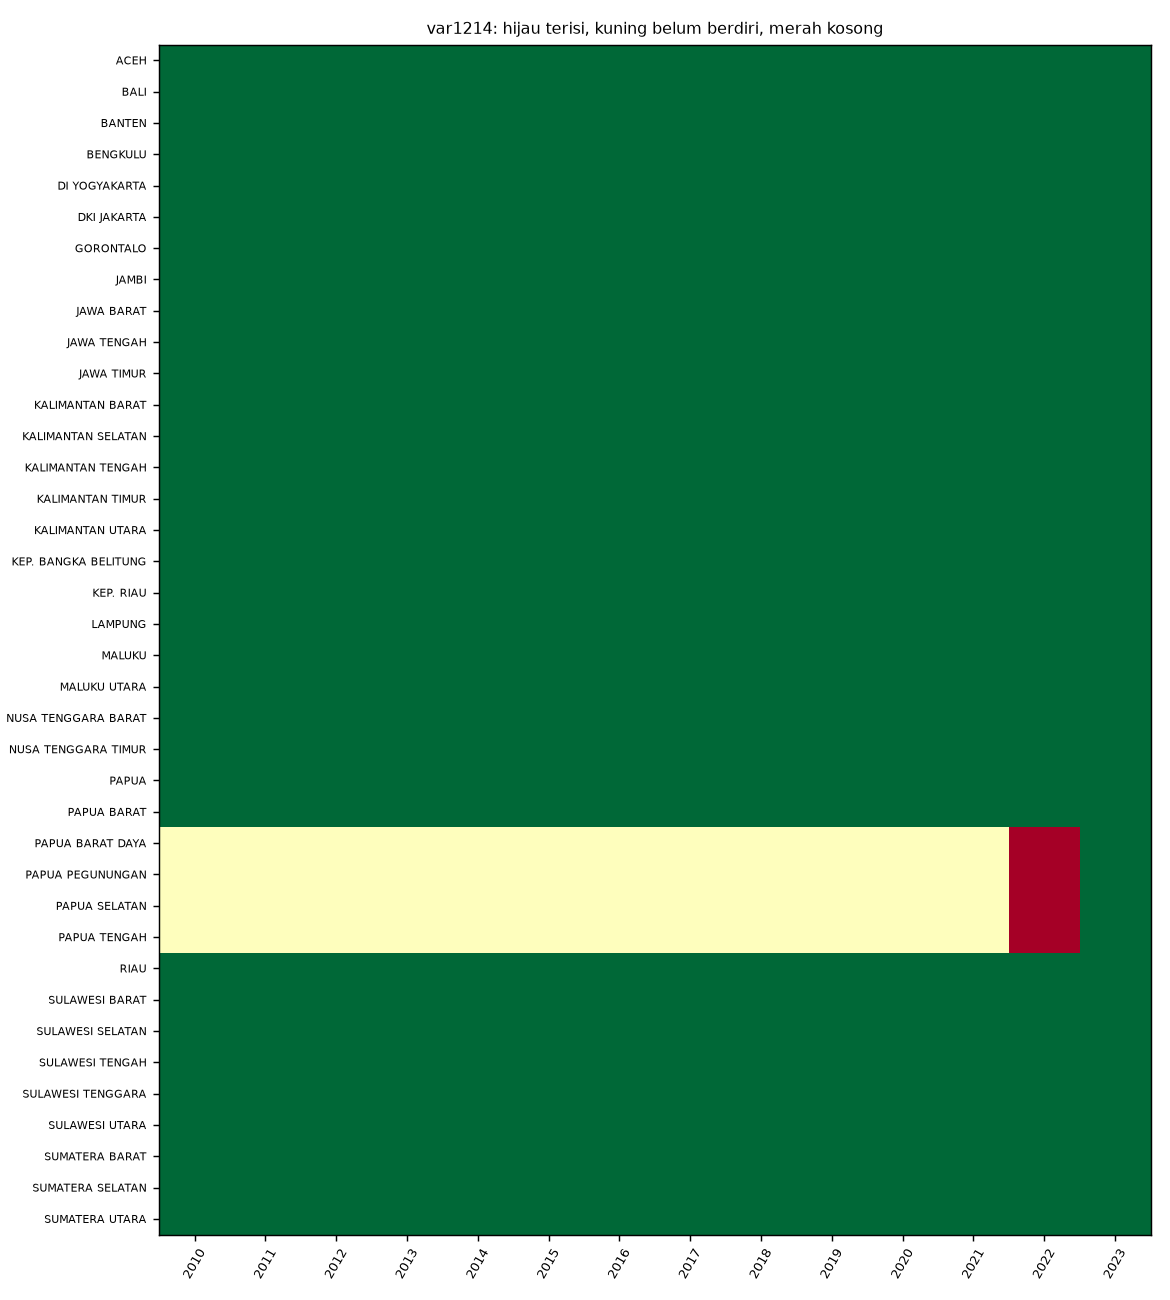
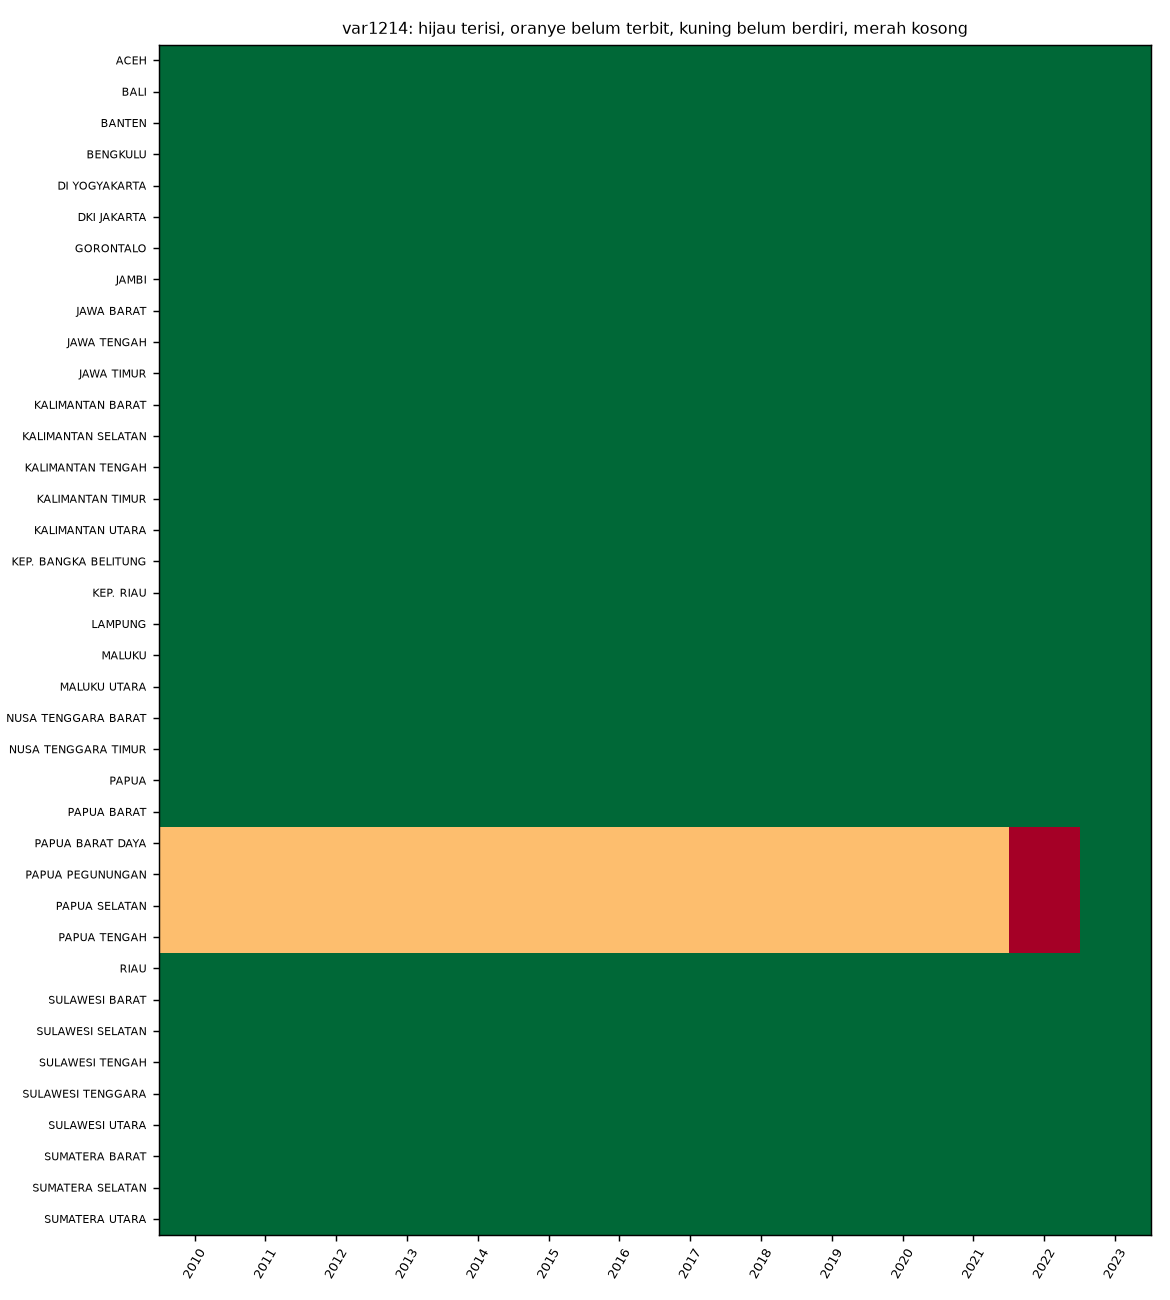
Revisi bagian 7 sprint 1 tahap 3

Changed region(s): [[0.1231, 0.6154, 0.8615, 0.7385], [0.3077, 0.0, 0.8308, 0.0308]]

diff --git a/src/silver/grid_tahap3.py b/src/silver/grid_tahap3.py
@@ -26,6 +26,13 @@ BERDIRI = {
     "PAPUA BARAT DAYA": 2022,
 }
 
+# REVISI: Tambahan untuk klasifikasi sel belum terbit (data belum dirilis BPS)
+BUKTI_1161 = ("var.note BPS: laju provinsi baru (DOB) baru tersedia 2025; "
+              "2024 dihitung pada provinsi induk")
+BELUM_TERBIT = {("var1161", n, t): BUKTI_1161
+                for n in ("PAPUA BARAT DAYA", "PAPUA SELATAN", "PAPUA TENGAH", "PAPUA PEGUNUNGAN")
+                for t in (2022, 2023, 2024)}
+
 
 def sebab_kosong(t, f, l):
     if f is None:
@@ -40,12 +47,14 @@ def sebab_kosong(t, f, l):
 def peta_sel(g, s):
     w = g.pivot(index="nama", columns="tahun", values="kode_status").sort_index()
     fig, ax = plt.subplots(figsize=(9, 10))
-    ax.imshow(w.values, aspect="auto", cmap="RdYlGn", vmin=0, vmax=2)
+    # REVISI: vmax diubah jadi 3 karena ada status baru (belum_terbit = 3)
+    ax.imshow(w.values, aspect="auto", cmap="RdYlGn", vmin=0, vmax=3)
     ax.set_xticks(range(len(w.columns)))
     ax.set_xticklabels(w.columns, rotation=60, fontsize=7)
     ax.set_yticks(range(len(w.index)))
     ax.set_yticklabels(w.index, fontsize=6)
-    ax.set_title(f"{s}: hijau terisi, kuning belum berdiri, merah kosong", fontsize=9)
+    # REVISI: Judul keterangan warna disesuaikan
+    ax.set_title(f"{s}: hijau terisi, oranye belum terbit, kuning belum berdiri, merah kosong", fontsize=9)
     fig.tight_layout()
     fig.savefig(GAMBAR / f"grid_{s}.png", dpi=130)
     plt.close(fig)
@@ -103,9 +112,13 @@ def main():
             for t in tahun:
                 v = nilai.get((w, t), np.nan)
                 if pd.notna(v):
-                    st, sb, ks = "terisi", "", 2
+                    st, sb, ks = "terisi", "", 3
                 elif lahir and t < lahir:
                     st, sb, ks = "belum_berdiri", "", 1
+                elif (s, str(nama[w]).upper().strip(), t) in BELUM_TERBIT:
+                    # REVISI: Tambahan kondisi untuk menangkap status belum terbit
+                    st, ks = "belum_terbit", 2
+                    sb = BELUM_TERBIT[(s, str(nama[w]).upper().strip(), t)]
                 else:
                     st, sb, ks = "kosong", sebab_kosong(t, f, l), 0
                 baris.append(dict(seri_kode=s, wilayah_kode=w, nama=nama[w], tahun=t,
@@ -113,8 +126,9 @@ def main():
     g = pd.DataFrame(baris)
     g.drop(columns="kode_status").to_csv(PROFIL / "grid_panel.csv", index=False)
 
-    # 4. kelengkapan per tahun dan per seri (belum_berdiri tidak dihitung missing)
-    ada = g[g["status"] != "belum_berdiri"]
+    # 4. kelengkapan per tahun dan per seri (belum_berdiri & belum_terbit tidak dihitung missing)
+    # REVISI: buang status belum_terbit juga dari sel yang diharapkan
+    ada = g[~g["status"].isin(["belum_berdiri", "belum_terbit"])]
     kt = (ada.groupby(["seri_kode", "tahun"])
           .agg(sel_diharapkan=("status", "size"),
                sel_terisi=("status", lambda x: int((x == "terisi").sum()))).reset_index())
@@ -125,15 +139,20 @@ def main():
           .agg(tahun_awal=("tahun", "min"), tahun_akhir=("tahun", "max"),
                sel_grid=("status", "size"),
                belum_berdiri=("status", lambda x: int((x == "belum_berdiri").sum())),
+               belum_terbit=("status", lambda x: int((x == "belum_terbit").sum())),
                terisi=("status", lambda x: int((x == "terisi").sum())),
                kosong=("status", lambda x: int((x == "kosong").sum()))).reset_index())
-    ks["sel_diharapkan"] = ks["sel_grid"] - ks["belum_berdiri"]
+    
+    # REVISI: Masukkan belum_terbit ke dalam pengurangan sel_diharapkan
+    ks["sel_diharapkan"] = ks["sel_grid"] - ks["belum_berdiri"] - ks["belum_terbit"]
     ks["persen_terisi"] = (100 * ks["terisi"] / ks["sel_diharapkan"]).round(1)
+    
     sb = g[g["status"] == "kosong"].pivot_table(index="seri_kode", columns="sebab",
                                                 values="tahun", aggfunc="count", fill_value=0)
     ks = ks.merge(sb.reset_index(), on="seri_kode", how="left").fillna(0)
     ks.to_csv(PROFIL / "kelengkapan_per_seri.csv", index=False)
 
+    # Hanya detail untuk sel yang benar-benar missing (kosong)
     kd = (g[g["status"] == "kosong"].groupby(["seri_kode", "wilayah_kode", "nama", "sebab"])
           .agg(n_sel=("tahun", "size"),
                tahun=("tahun", lambda x: " ".join(map(str, sorted(x))))).reset_index())
@@ -167,7 +186,12 @@ def main():
         print("tahun arah berlawanan:", ok.index[~ok["arah_sama"]].tolist())
     else:
         print("tidak ada baris nasional var1161")
-    print("\nsel_kosong_grid total:", int((g["status"] == "kosong").sum()))
+        
+    # REVISI: Output terminal dipisah menjadi 4 baris
+    print("\nsel_missing (kosong):", int((g["status"] == "kosong").sum()))
+    print("sel_belum_terbit:", int((g["status"] == "belum_terbit").sum()))
+    print("sel_belum_berdiri:", int((g["status"] == "belum_berdiri").sum()))
+    print("sel_kosong_grid (missing + belum_terbit):", int(g["status"].isin(["kosong", "belum_terbit"]).sum()))
     print("selesai. Lihat reports/profil/ dan reports/gambar/grid_*.png")
 
 

diff --git a/reports/grid-tahap3.md b/reports/grid-tahap3.md
@@ -12,8 +12,8 @@ Aturan:
 2. Susunan 38 provinsi diambil dari kode wilayah di var2755 (38 kode, tidak ada kode dengan dua nama). Nama ke-38 provinsi diperiksa satu per satu, termasuk Kalimantan Utara dan empat provinsi baru Papua.
 3. Kunci yang sama pada dua snapshot atau dua format (CSV dan JSON) diambil dari snapshot terbaru, hanya untuk analisis. Aturan pemilihan resmi ditetapkan di Gold dan dicatat di log.
 4. Sel provinsi baru sebelum tahun berdiri ditandai `belum_berdiri` dan tidak dihitung missing (Kalimantan Utara 2012; Papua Barat Daya, Papua Selatan, Papua Tengah, dan Papua Pegunungan 2022). Tahun berdiri adalah asumsi awal. Sel yang terisi tetap dihitung terisi walaupun sebelum tahun itu.
-5. Sel kosong dibiarkan kosong dan dilaporkan. Tidak ada imputasi.
-6. Keputusan dicatat di `log-keputusan.csv` (K-002 sampai K-007).
+5. Sel kosong dibedakan menjadi dua: `belum_terbit` (sesuai catatan resmi BPS) dan `kosong` (missing belum terjelaskan). Keduanya tidak diimputasi.
+6. Keputusan dicatat di `log-keputusan.csv` (K-002 sampai K-010).
 
 ## 2. Kode di luar 38 provinsi
 
@@ -24,25 +24,25 @@ Bukti dari berkas mentah (`bps/2026-10-17/json/sdg8_produktivitas.json`):
 - Daftar vervar pada halaman JSON itu hanya memuat 9999 (INDONESIA). Kode 1 tidak punya label.
 - Kedua baris hanya ada di JSON. CSV tidak memuatnya, sehingga berkas ini berisi 524 baris (CSV) dan 526 baris (JSON).
 
-Nilainya dekat dengan angka nasional tahun yang sama (4,70 dan 1,85) tetapi tidak sama, sehingga tidak cukup untuk menyimpulkan bahwa kode ini adalah baris nasional. Arti kode 1 belum terbukti. Kedua baris tidak masuk grid, tidak dihapus, tidak dipetakan ke wilayah lain, dan tetap tercatat di `reports/profil/kode_wilayah_di_luar_38.csv` (log K-006). Keduanya adalah 2 dari 511 pengamatan var1161 pada profil Tahap 2, dan nilainya berada di dalam rentang provinsi. var1214 dan var2755 memuat 38 kode provinsi dan var1344 memuat 34 kode.
+Nilainya dekat dengan angka nasional tahun yang sama (4,70 dan 1,85) tetapi tidak sama, sehingga tidak cukup untuk menyimpulkan bahwa kode ini adalah baris nasional. Arti kode 1 belum terbukti. Kedua baris tidak masuk grid, tidak dihapus, tidak dipetakan ke wilayah lain, dan tetap tercatat di `reports/profil/kode_wilayah_di_luar_38.csv` (log K-009). Keduanya adalah 2 dari 511 pengamatan var1161 pada profil Tahap 2, dan nilainya berada di dalam rentang provinsi. var1214 dan var2755 memuat 38 kode provinsi dan var1344 memuat 34 kode.
 
 ## 3. Kelengkapan per seri
 
-| Seri | Periode | Sel grid | Belum berdiri | Diharapkan | Terisi | Kosong | Persen terisi |
-|---|---|---|---|---|---|---|---|
-| var1161 | 2011-2025 | 570 | 45 | 525 | 509 | 16 | 97,0 |
-| var1214 | 2010-2023 | 532 | 48 | 484 | 480 | 4 | 99,2 |
-| var1344 | 2015-2023 | 342 | 28 | 314 | 306 | 8 | 97,5 |
-| var2755 | 2018-2025 | 304 | 16 | 288 | 280 | 8 | 97,2 |
-| Total | | 1.748 | 137 | 1.611 | 1.575 | 36 | 97,8 |
+| Seri | Periode | Sel grid | Belum berdiri | Belum terbit | Diharapkan | Terisi | Kosong (Missing) | Persen terisi |
+|---|---|---|---|---|---|---|---|---|
+| var1161 | 2011-2025 | 570 | 45 | 12 | 513 | 509 | 4 | 99,2 |
+| var1214 | 2010-2023 | 532 | 48 | 0 | 484 | 480 | 4 | 99,2 |
+| var1344 | 2015-2023 | 342 | 28 | 0 | 314 | 306 | 8 | 97,5 |
+| var2755 | 2018-2025 | 304 | 16 | 0 | 288 | 280 | 8 | 97,2 |
+| Total | | 1.748 | 137 | 12 | 1.599 | 1.575 | 24 | 98,5 |
 
-Persen terisi = terisi dibagi sel diharapkan (sel belum berdiri tidak dihitung). Baris provinsi hasil ekstraksi 1.577 = 1.575 sel terisi + 2 baris kode 1 yang di luar grid.
+Persen terisi = terisi dibagi sel diharapkan (sel belum berdiri dan belum terbit tidak dihitung). Baris provinsi hasil ekstraksi 1.577 = 1.575 sel terisi + 2 baris kode 1 yang di luar grid.
 
 ## 4. Persen terisi per tahun
 
 Tabel lengkap: `reports/profil/kelengkapan_per_tahun.csv`.
 
-- var1161: 100% pada 2011, 2016-2021, dan 2025. 97,1% pada 2012-2015 (33 dari 34 provinsi). 89,5% pada 2022-2024 (34 dari 38).
+- var1161: 100% pada 2011, 2016-2025. 97,1% pada 2012-2015 (33 dari 34 provinsi). (Catatan: 2022-2024 kini 100% karena 12 sel belum terbit tidak dihitung sebagai missing).
 - var1214: 100% pada 2010-2021 dan 2023. 89,5% pada 2022 (34 dari 38).
 - var1344: 100% pada 2015-2021. 89,5% pada 2022 dan 2023.
 - var2755: 100% pada 2018-2021, 2024, dan 2025. 89,5% pada 2022 dan 2023.
@@ -51,17 +51,18 @@ Persen terendah 89,5% berarti 34 dari 38 provinsi terisi.
 
 ## 5. Sel kosong
 
-Detail: `reports/profil/sel_kosong_detail.csv`. Seluruh 36 sel kosong ada pada lima provinsi. Tidak ada celah di tengah deret dan tidak ada provinsi lama yang kosong.
+Detail: `reports/profil/sel_kosong_detail.csv`. Dari 36 sel yang tidak terisi, **12 sel dikategorikan belum terbit** (tidak dihitung missing) dan **24 sel dikategorikan missing belum terjelaskan**. Seluruh sel tersebut hanya ada pada lima provinsi baru. Tidak ada celah di tengah deret dan tidak ada provinsi lama yang kosong.
 
-| Provinsi | Seri dan tahun kosong | Sel |
-|---|---|---|
-| Kalimantan Utara | var1161 2012-2015 | 4 |
-| Papua Barat Daya, Papua Selatan, Papua Tengah, Papua Pegunungan | var1161 2022-2024 (3 sel per provinsi), var1214 2022 (1), var2755 2022-2023 (2), var1344 2022-2023 (2) | 32 |
+| Provinsi | Jenis | Seri dan tahun | Sel |
+|---|---|---|---|
+| Papua Barat Daya, Papua Selatan, Papua Tengah, Papua Pegunungan | `belum_terbit` | var1161 2022-2024 | 12 |
+| Kalimantan Utara | `kosong` (missing) | var1161 2012-2015 | 4 |
+| Papua Barat Daya, Papua Selatan, Papua Tengah, Papua Pegunungan | `kosong` (missing) | var1214 2022 (4 sel); var2755 2022-2023 (8 sel); var1344 2022-2023 (8 sel) | 20 |
 
 Penyebab:
-1. var1161: catatan BPS (var.note) menyatakan laju 2024 dihitung pada provinsi induk (Papua dan Papua Barat) karena data tenaga kerja provinsi baru baru tersedia 2024, sehingga laju provinsi baru baru tersedia 2025.
-2. var1344 dan var2755: catatan BPS tidak memberi penjelasan. Penyebab belum terjelaskan. Pada var1344 keempat provinsi baru Papua tidak ada di seri (34 provinsi).
-3. Kalimantan Utara var1161 2012-2015: belum terjelaskan. Menurut `grid_panel.csv`, var1214 sudah memuat nilai Kalimantan Utara sejak 2010, jadi cakupan provinsi baru berbeda antarseri dan tidak diseragamkan.
+1. **Belum terbit (var1161):** catatan BPS (var.note) menyatakan laju 2024 dihitung pada provinsi induk (Papua dan Papua Barat) karena data tenaga kerja provinsi baru baru tersedia 2024, sehingga laju provinsi baru baru tersedia 2025. Klasifikasi ini disimpulkan dari catatan dan menunggu konfirmasi pembimbing.
+2. **Missing var1344 dan var2755:** catatan BPS tidak memberi penjelasan. Pada var1344 keempat provinsi baru Papua tidak ada di seri (34 provinsi).
+3. **Missing Kalimantan Utara var1161 2012-2015:** belum terjelaskan. Menurut `grid_panel.csv`, var1214 sudah memuat nilai Kalimantan Utara sejak 2010, jadi cakupan provinsi baru berbeda antarseri dan tidak diseragamkan.
 
 ## 6. Laju var1161: provinsi vs nasional
 
@@ -75,7 +76,7 @@ Kesimpulan: laju provinsi konsisten dengan angka nasional dalam hal rentang, ara
 
 ## 7. var1214
 
-Satu ukuran. Kolom turvar seluruhnya "Tidak ada" (494 baris), daftar turvar di JSON mentah satu entri, judul dan metadata `var` tunggal, `related` kosong, dan tidak ada entri katalog kembar. Panduan menyebut dua ukuran, tetapi pembedanya tidak ditemukan pada snapshot 2026-10-20. Seri diperlakukan sebagai satu seri dan dikonfirmasi ke pembimbing (log K-005). Dasar harga tidak disebut di metadata. Catatan BPS: 2022 angka sementara dan 2023 angka sangat sementara.
+Satu ukuran. Kolom turvar seluruhnya "Tidak ada" (494 baris), daftar turvar di JSON mentah satu entri, judul dan metadata `var` tunggal, `related` kosong, dan tidak ada entri katalog kembar. Panduan menyebut dua ukuran, tetapi pembedanya tidak ditemukan pada snapshot 2026-10-20. Seri diperlakukan sebagai satu seri dan dikonfirmasi ke pembimbing (log K-010). Dasar harga tidak disebut di metadata. Catatan BPS: 2022 angka sementara dan 2023 angka sangat sementara.
 
 ## 8. Keterbatasan
 
@@ -89,4 +90,4 @@ Satu ukuran. Kolom turvar seluruhnya "Tidak ada" (494 baris), daftar turvar di J
 
 - `reports/profil/grid_panel.csv`, `kelengkapan_per_seri.csv`, `kelengkapan_per_tahun.csv`, `sel_kosong_detail.csv`, `kode_wilayah_di_luar_38.csv`, `baris_nasional.csv`, `laju_provinsi_vs_nasional.csv`
 - Gambar: `reports/gambar/grid_var1161.png`, `grid_var1214.png`, `grid_var1344.png`, `grid_var2755.png`
-- Log: `log-keputusan.csv` K-002 sampai K-007
+- Log: `log-keputusan.csv` K-002 sampai K-010
